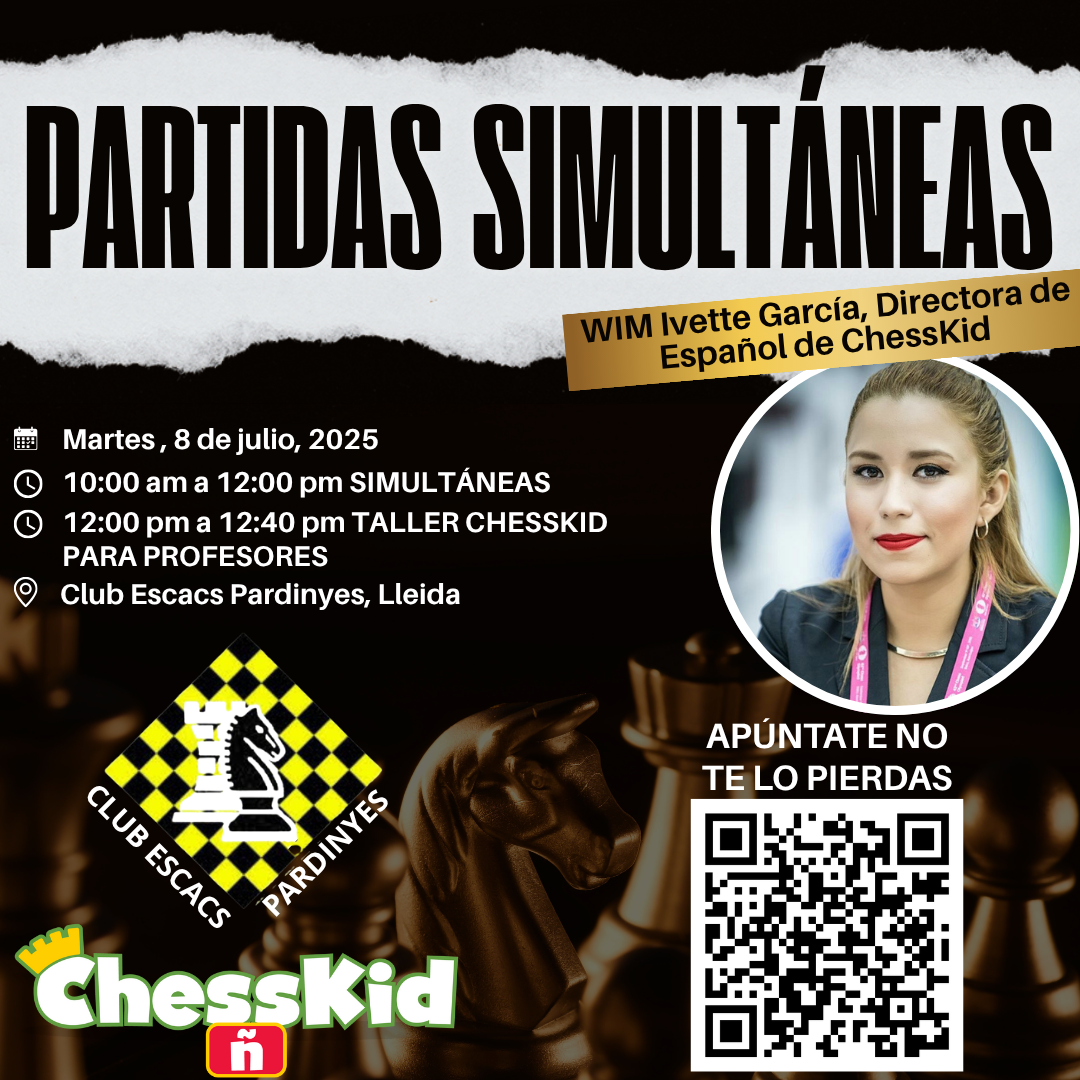
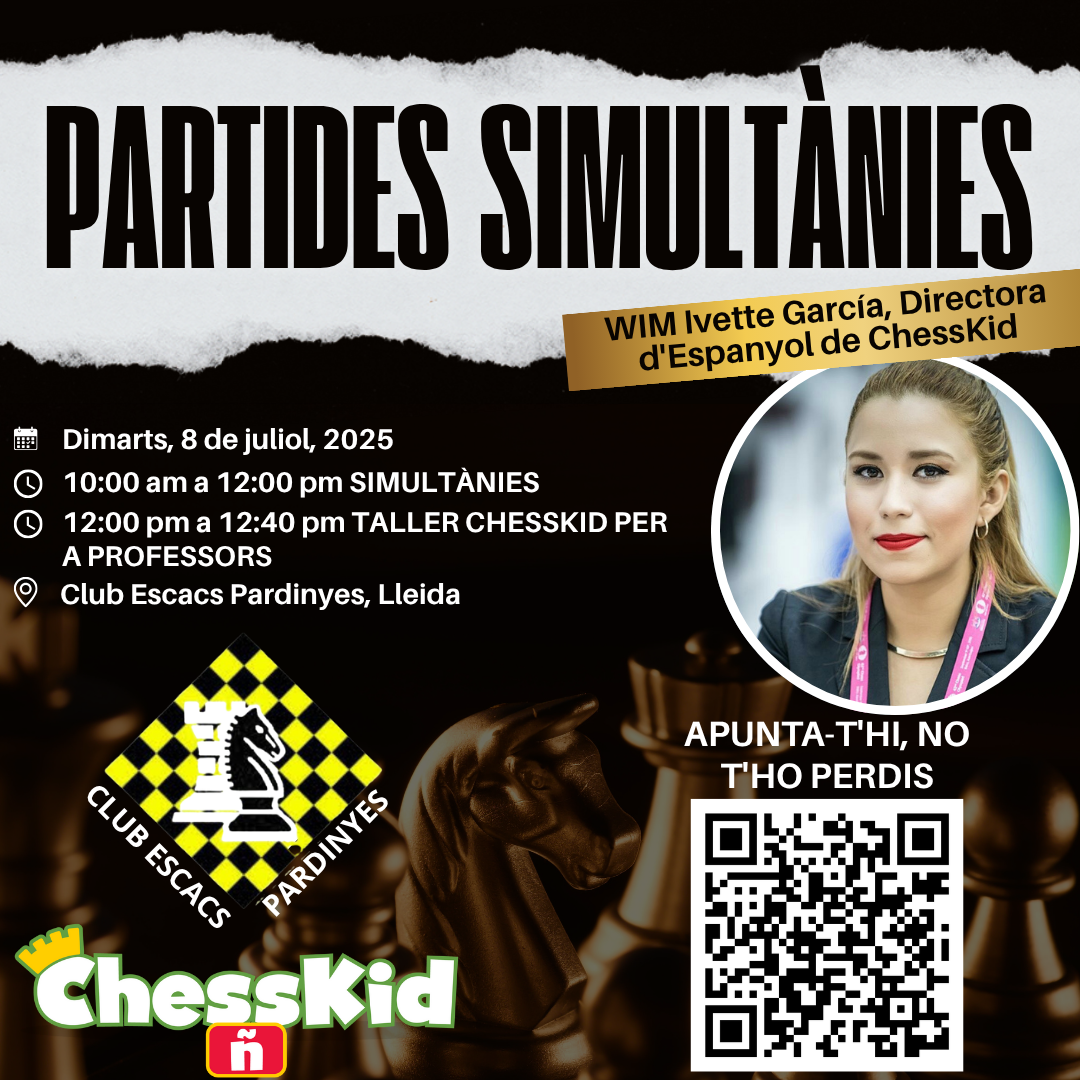
simul

diff --git a/simultanies.html b/simultanies.html
@@ -49,8 +49,8 @@
   "@type": "Event",
   "name": "Simultáneas y Taller ChessKid con WIM Ivette García",
   "url": "https://escacspardinyes.com/simultanies.html",
-  "startDate": "2024-MM-DD",  <-- **IMPORTANT: Replace with the actual date of the event**
-  "endDate": "2024-MM-DD",    <-- **IMPORTANT: Replace with the actual date of the event**
+  "startDate": "2024-MM-DD",  <-- IMPORTANT: Replace with the actual date of the event
+  "endDate": "2024-MM-DD",    <-- IMPORTANT: Replace with the actual date of the event
   "eventStatus": "https://schema.org/EventScheduled",
   "eventAttendanceMode": "https://schema.org/OfflineEventAttendanceMode",
   "location": {
@@ -64,7 +64,7 @@
       "addressCountry": "ES"
     }
   },
-  "image": "https://escacspardinyes.com/img/cartell-simultanies-ivette.jpg", <-- **Ensure this image path is correct**
+  "image": "https://escacspardinyes.com/img/cartell-simultanies-ivette.jpg", <-- Ensure this image path is correct
   "description": "Una jornada única de ajedrez con la WIM Ivette García, Directora de Español de ChessKid. Incluye simultáneas donde los participantes recibirán 2 meses gratis de ChessKid, y un taller especializado para profesores de ajedrez, con membresía de 6 meses en ChessKid para los asistentes.",
   "performer": {
     "@type": "Person",
@@ -92,7 +92,7 @@
       "price": "0",
       "priceCurrency": "EUR",
       "availability": "https://schema.org/InStock",
-      "url": "https://docs.google.com/forms/d/e/1FAIpQLSfJWeXoLiCW5M8ElEFf_kxYGN7io4Nj6q12FF5Qy71XR20VsD/viewform?embedded=true", <-- **Update with your actual form URL**
+      "url": "https://docs.google.com/forms/d/e/1FAIpQLSfJWeXoLiCW5M8ElEFf_kxYGN7io4Nj6q12FF5Qy71XR20VsD/viewform?embedded=true", <-- Update with your actual form URL
       "description": "Inscripción gratuita para participar en las simultáneas. Todos los asistentes reciben 2 meses de ChessKid."
     },
     {
@@ -101,13 +101,14 @@
       "price": "0",
       "priceCurrency": "EUR",
       "availability": "https://schema.org/InStock",
-      "url": "https://docs.google.com/forms/d/e/1FAIpQLSfJWeXoLiCW5M8ElEFf_kxYGN7io4Nj6q12FF5Qy71XR20VsD/viewform?embedded=true", <-- **Update with your actual form URL**
+      "url": "https://docs.google.com/forms/d/e/1FAIpQLSfJWeXoLiCW5M8ElEFf_kxYGN7io4Nj6q12FF5Qy71XR20VsD/viewform?embedded=true", <-- Update with your actual form URL
       "description": "Inscripción gratuita al taller. Profesores asistentes reciben 6 meses de membresía de ChessKid."
     }
   ]
 }
 </script>
 </head>
+
 
 
 
@@ -128,14 +129,13 @@
                     <a href="school.html" class="nav-item nav-link">Escola d’Escacs</a>
                     <a href="contact.html" class="nav-item nav-link ">Contacte</a>
                     <a href="simultanies.html" class="nav-item nav-link active" >Simultànies</a>
-
                 </div>
             </div>
         </nav>
     </div>
     <div class="container-fluid page-header mb-5">
         <div class="d-flex flex-column align-items-center justify-content-center pt-0 pt-lg-5" style="min-height: 400px">
-            <h4 class="display-4 mb-3 mt-0 mt-lg-5 text-white text-uppercase font-weight-bold">Simultànies</h4>
+            <h4 class="display-4 mb-3 mt-0 mt-lg-5 text-white text-uppercase font-weight-bold">Simultànies amb WIM Ivette García</h4>
             <div class="d-inline-flex">
                 <p class="m-0 text-white"><a class="text-white" href="index.html">Inici</a></p>
                 <p class="m-0 text-white px-2">/</p>
@@ -148,25 +148,45 @@
         <div class="row">
             <div class="col-lg-6 mb-4 mb-lg-0 text-center">
                 <img src="img/cartell-simultanies-ivette.png" alt="Cartell simultànies WIM Ivette García" class="img-fluid rounded shadow">
-                <p><strong>10:00 am a 12:00 pm: Simultáneas con WIM Ivette García</strong><br>
-Participa en una emocionante sesión de simultáneas. Como agradecimiento, todos los asistentes recibirán un código QR para <strong>dos meses gratis de ChessKid</strong>.</p>
-
-<p><strong>12:00 pm a 12:40 pm: Taller ChessKid para profesores</strong><br>
-Este taller está dirigido a profesores que ya utilizan o desean incorporar ChessKid en sus clases. Los profesores que completen el formulario de registro para el taller recibirán una <strong>membresía de profesor de ChessKid por seis meses</strong>.</p>
-
-<p><strong>Conoce a Ivette García:</strong><br>
-Este mes, tendrás el placer de conocer a la WIM Ivette García, Directora de Español de ChessKid y la voz en español para las lecciones de ChessKid. Ella comenzó igual que tú, y trabajó duro para ser una jugadora, entrenadora y comentarista. Compartirá sus mejores consejos para ayudarte a mejorar también. Ivette vive en Chihuahua, México, y es Maestra Internacional, FIDE Instructor y comentarista de ajedrez. Ivette tiene muchos talentos diversos: por supuesto, le encanta el ajedrez, y también le encanta la música. Ivette es licenciada en Educación Física, tiene un MBA y ha representado a su país natal, México, cuatro veces en la Olimpiada Mundial de Ajedrez. Es considerada una de las mejores ajedrecistas de México.</p>
+                <div class="mt-4 text-left">
+                    <p>Ens complau confirmar que la WIM Ivette García, responsable de ChessKid per al món hispanoparlant i la veu en espanyol per a les lliçons de ChessKid, impartirà simultànies i un taller per a professors!</p>
+                    <h3 class="mt-4 mb-3">Coneix a Ivette García:</h3>
+                    <p>Aquest mes, tindràs el plaer de conèixer a la WIM Ivette García, responsable de ChessKid per al món hispanoparlant i la veu en espanyol per a les lliçons de ChessKid! Ella va començar igual que tu, i va treballar dur per ser una jugadora, entrenadora i comentarista. Compartirà els seus millors consells per ajudar-te a millorar també. Ivette viu a Chihuahua, Mèxic, i és Maestra Internacional, FIDE Instructor i comentarista d'escacs. Ivette té molts talents diversos: per descomptat, li encanta l'escacs, i també li encanta la música. Ivette és llicenciada en Educació Física, té un MBA i ha representat al seu país natal, Mèxic, quatre vegades en l'Olimpíada Mundial d'Escacs. És considerada una de les millors escaquistes de Mèxic.</p>
+                    <h3 class="mt-4 mb-3">10:00 am a 12:00 pm: Simultànies amb WIM Ivette García</h3>
+                    <p>Participa en una emocionant sessió de simultànies. Com a agraïment, tots els assistents rebran un codi QR per a dos mesos gratis de ChessKid.</p>
+                    
+                    <h3 class="mt-4 mb-3">12:00 pm a 12:40 pm: Taller ChessKid per a professors</h3>
+                    <p>Aquest taller està dirigit a professors que ja utilitzen o desitgen incorporar ChessKid en les seves classes. Els professors que completin el formulari de registre per al taller rebran una subscripció de professor de ChessKid per sis mesos.</p>
+                    
+                    
+                </div>
             </div>
             <div class="col-lg-6">
-<iframe src="https://docs.google.com/forms/d/e/1FAIpQLScTrzYJoJ3jCHoedQTs8GZkeNbPWr6mL3y_2zzrWLMyGz2t1A/viewform?embedded=true" width="640" height="1624" frameborder="0" marginheight="0" marginwidth="0">S&#39;està carregant…</iframe>            </div>
+                <iframe src="https://docs.google.com/forms/d/e/1FAIpQLScTrzYJoJ3jCHoedQTs8GZkeNbPWr6mL3y_2zzrWLMyGz2t1A/viewform?embedded=true" width="100%" height="1624" frameborder="0" marginheight="0" marginwidth="0">S'està carregant…</iframe>
+            </div>
         </div>
     </div>
     
+    <div class="container pb-5 mt-5">
+        <h2 class="text-center font-weight-bold mb-5">Els nostres Col·laboradors</h2>
+        <div class="row justify-content-center">
+            <div class="col-lg-8 text-center">
+                <img src="img/cartell-colaboradors.png" alt="Cartell de Col·laboradors del Club Escacs Pardinyes" class="img-fluid rounded shadow">
+                <div class="mt-4">
+                    <p class="lead">Volem expressar el nostre més sincer agraïment a totes les entitats i persones que fan possible la nostra activitat. La vostra col·laboració és fonamental per promoure els escacs a la nostra comunitat.</p>
+                    <p>Si voleu formar part de la nostra xarxa de suport, no dubteu en contactar-nos!</p>
+                </div>
+            </div>
+        </div>
+    </div>
 
     <div class="container border-top border-dark pt-5">
         <p class="m-0 text-center text-black">
             &copy; <a class="text-black font-weight-bold" href="#">Club Escacs Pardinyes</a>. Tots els drets reservats. Fundat l'any 1992.
         </p>
     </div>
-</body>
+
+    <script src="https://code.jquery.com/jquery-3.4.1.min.js"></script>
+    <script src="https://stackpath.bootstrapcdn.com/bootstrap/4.4.1/js/bootstrap.bundle.min.js"></script>
+    </body>
 </html>
